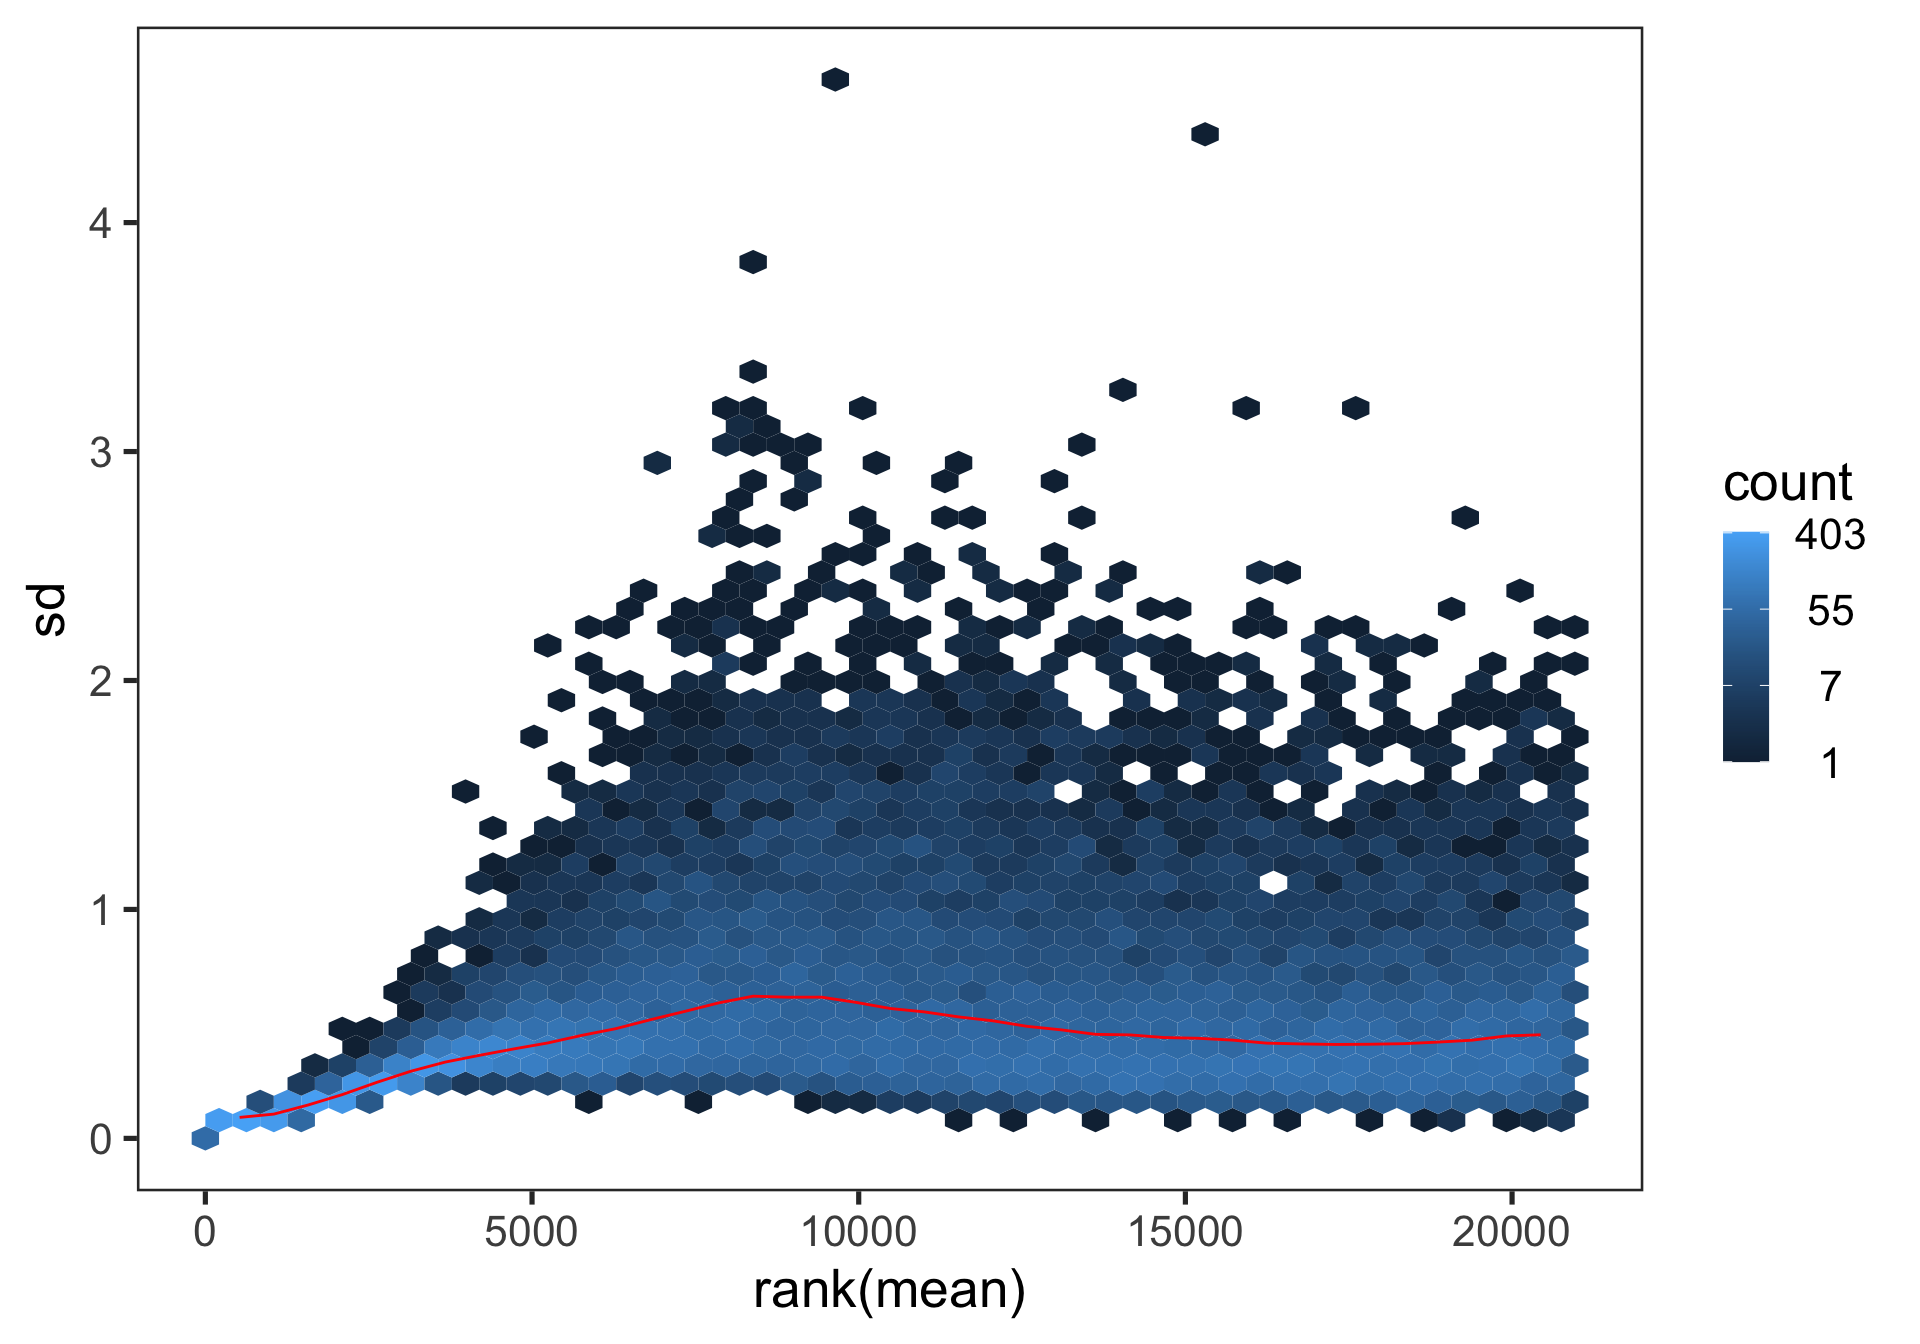
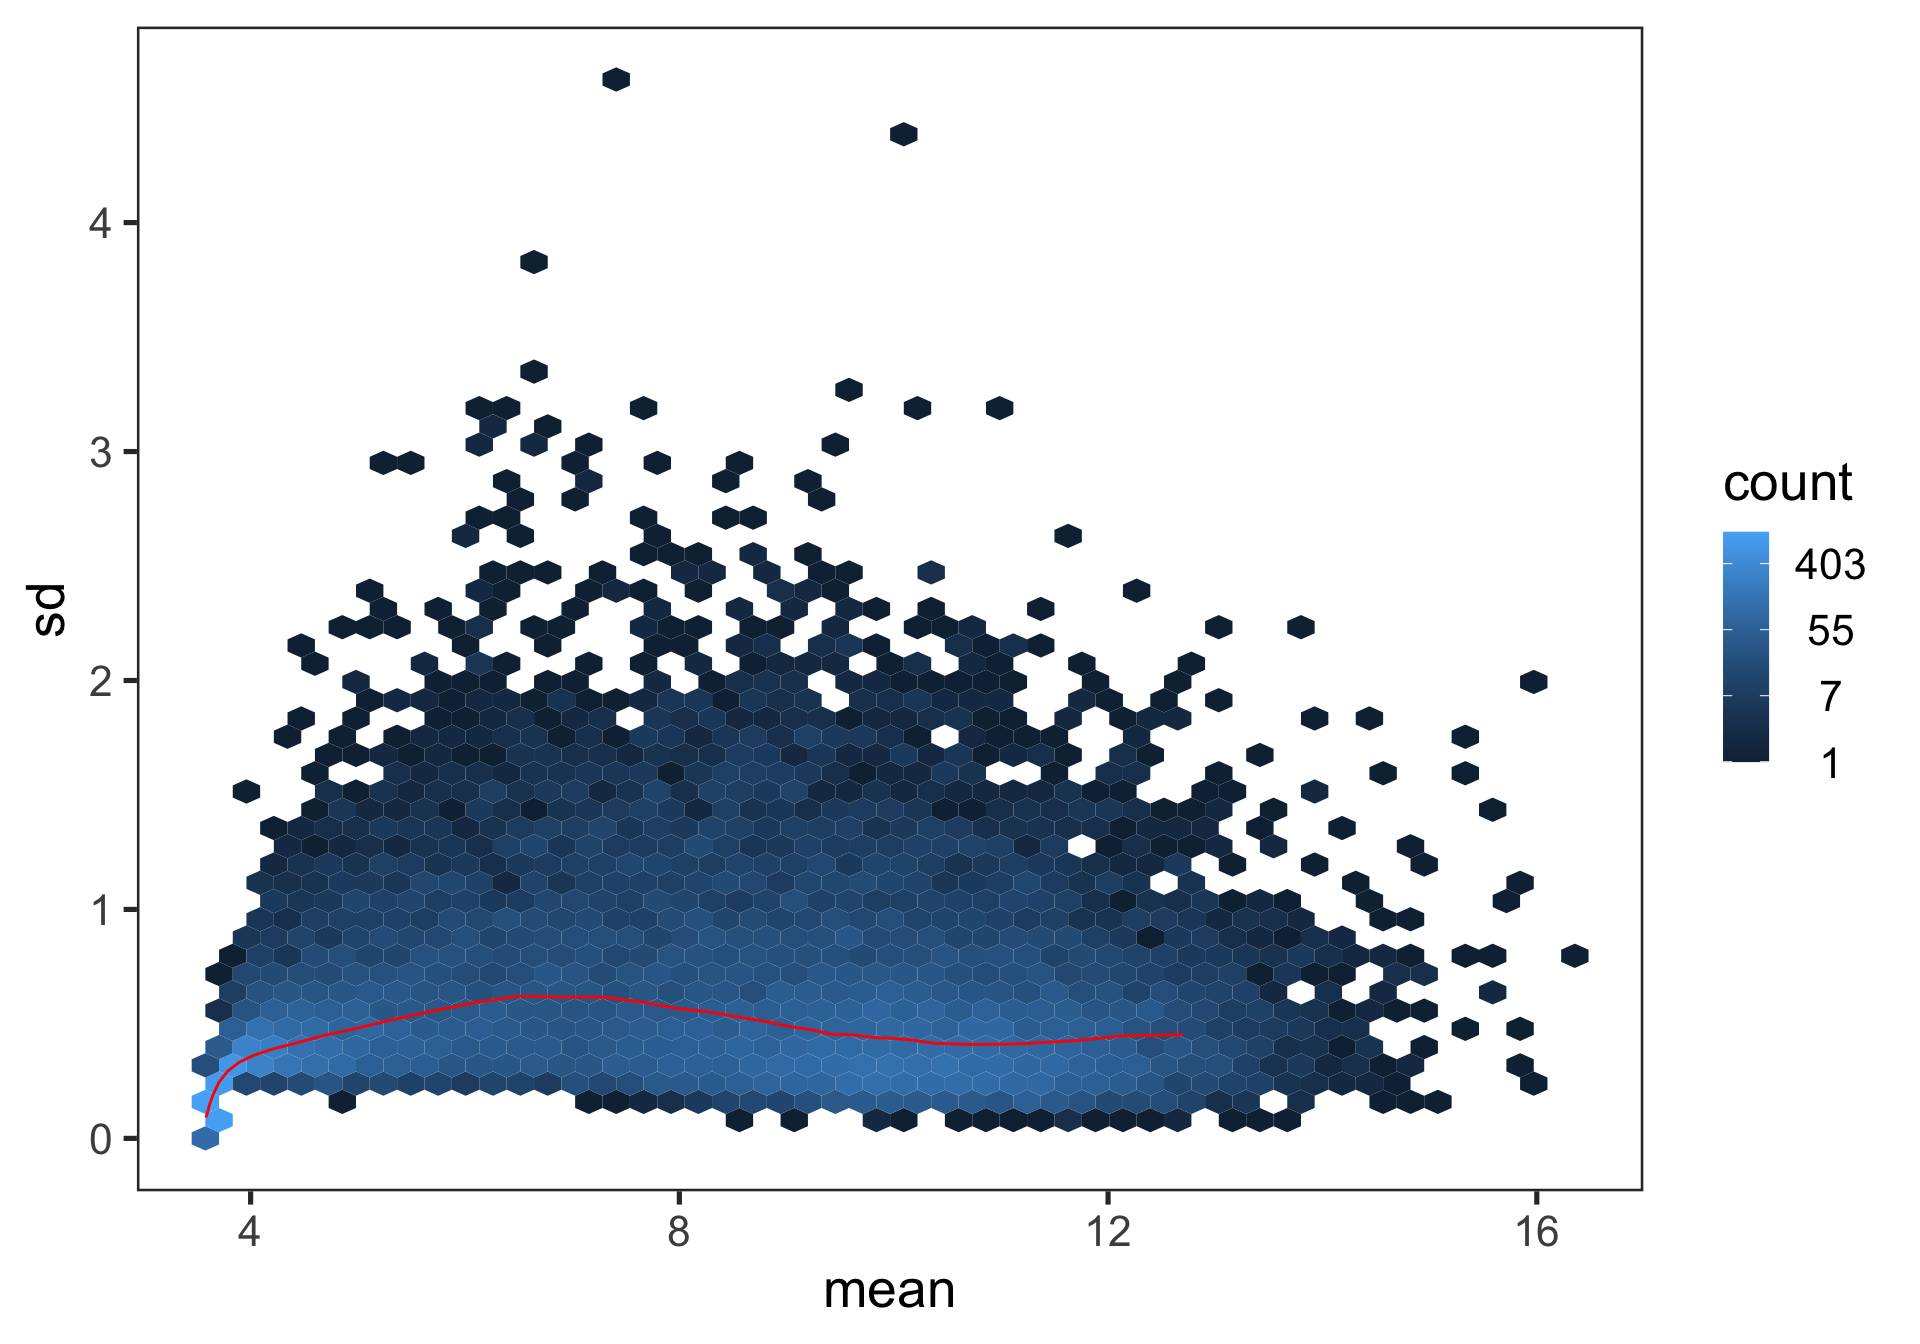
fix typos

diff --git a/lect10-RNAseq/lect10-RNAseq.html b/lect10-RNAseq/lect10-RNAseq.html
@@ -1031,7 +1031,7 @@ attr(,"contrasts")$DPC
 <div class="column">
 <ul>
 <li><p>OLS: assume all errors have the same variance (within gene)</p></li>
-<li><p>If not true, higher variance observations get more weight in minimization of error than they should (since less precise)</p>
+<li><p>If not true, higher variance observations get less weight in minimization of error than they should (since less precise)</p>
 <ul>
 <li><p>Standard errors of parameter estimates will be poor estimates</p></li>
 <li><p>Recall: <span class="math inline">\(t = \frac{\hat{\beta}}{se(\hat{\beta})}\)</span></p></li>
@@ -1153,7 +1153,7 @@ attr(,"contrasts")$DPC
 <li><p>Falls under the category <em>“Make adjustments and model as usual”</em></p></li>
 <li><p>Specifically, adjustment to regular <code>lm</code> to account for M-V relationship + <code>limma</code></p></li>
 </ul>
-<p>. . .</p>
+<div class="fragment">
 <div class="callout callout-important callout-titled callout-style-default">
 <div class="callout-body">
 <div class="callout-title">
@@ -1164,7 +1164,7 @@ attr(,"contrasts")$DPC
 </div>
 <div class="callout-content">
 <ol type="1">
-<li><p>heteroskedasticity leads to higher variance observations getting more weight in minimization of error than they should</p></li>
+<li><p>heteroskedasticity leads to higher variance observations getting less weight in minimization of error than they should</p></li>
 <li><p>modeling the mean-variance relationship is more important than getting the probability distribution exactly right (i.e.&nbsp;don’t bother with distributions like Poisson, Binomial, etc that lead to more complicated likelihoods)</p></li>
 </ol>
 </div>
@@ -1173,6 +1173,7 @@ attr(,"contrasts")$DPC
 <ul>
 <li>Proposed in <a href="https://genomebiology.biomedcentral.com/articles/10.1186/gb-2014-15-2-r29">“voom: precision weights unlock linear model analysis tools for RNA-seq read counts” by Law et al.&nbsp;(2014)</a></li>
 </ul>
+</div>
 </section>
 <section id="voom-implementation" class="slide level2">
 <h2>Voom implementation</h2>
@@ -1455,7 +1456,8 @@ attr(,"contrasts")$DPC
 <details>
 <summary>Code</summary>
 <div class="sourceCode cell-code" id="cb35"><pre class="sourceCode numberSource r number-lines code-with-copy"><code class="sourceCode r"><span id="cb35-1"><a href="#cb35-1"></a><span class="fu">library</span>(<span class="st">"vsn"</span>)</span>
-<span id="cb35-2"><a href="#cb35-2"></a><span class="fu">meanSdPlot</span>(<span class="fu">vst</span>(<span class="fu">as.matrix</span>(counts)))</span></code><button title="Copy to Clipboard" class="code-copy-button"><i class="bi"></i></button></pre></div>
+<span id="cb35-2"><a href="#cb35-2"></a><span class="fu">meanSdPlot</span>(<span class="fu">vst</span>(<span class="fu">as.matrix</span>(counts)), </span>
+<span id="cb35-3"><a href="#cb35-3"></a>           <span class="at">ranks =</span> <span class="cn">FALSE</span>)</span></code><button title="Copy to Clipboard" class="code-copy-button"><i class="bi"></i></button></pre></div>
 </details>
 <div class="cell-output-display">
 <p><img data-src="lect10-RNAseq_files/figure-revealjs/unnamed-chunk-24-1.png" width="960"></p>
@@ -1538,7 +1540,7 @@ attr(,"contrasts")$DPC
 <li><p>The Gamma distribution on means captures the biological variance (overdispersion) that can’t be accommodated by Poisson alone</p></li>
 </ul></li>
 <li><p>“Overdispersed Poisson” (variance <span class="math inline">\(&gt;\)</span> mean)</p></li>
-<li><p><strong>Key problem</strong>: estimating dispersion from small datasets is tricky!</p></li>
+<li><p><strong>Key problem</strong>: estimating (gene-specific) dispersion from small datasets is tricky!</p></li>
 </ul>
 
 <img data-src="img/overdisp.png" class="r-stretch quarto-figure-center"></section>
@@ -1552,7 +1554,7 @@ attr(,"contrasts")$DPC
 <li><p>Methods: <a href="https://bioconductor.org/packages/release/bioc/html/edgeR.html"><code>edgeR</code></a>, <a href="https://bioconductor.org/packages/release/bioc/html/DESeq2.html"><code>DESeq2</code></a></p></li>
 <li><p>Both assume counts have underlying <em>Negative Binomial distribution</em> and fit <strong>generalized linear models</strong></p>
 <ul>
-<li><p><strong>Generalized linear models</strong> (GLM) are a generalization of OLS that allows for response variables that have error distribution models other than a normal distribution</p></li>
+<li><p><strong>Generalized linear models</strong> (GLM) are a generalization of OLS that allow for response variables that have error distribution models other than a normal distribution</p></li>
 <li><p>No closed-form solutions (iterative estimation)</p></li>
 </ul></li>
 <li><p>Still fit models gene-by-gene as we’ve discussed so far</p></li>
